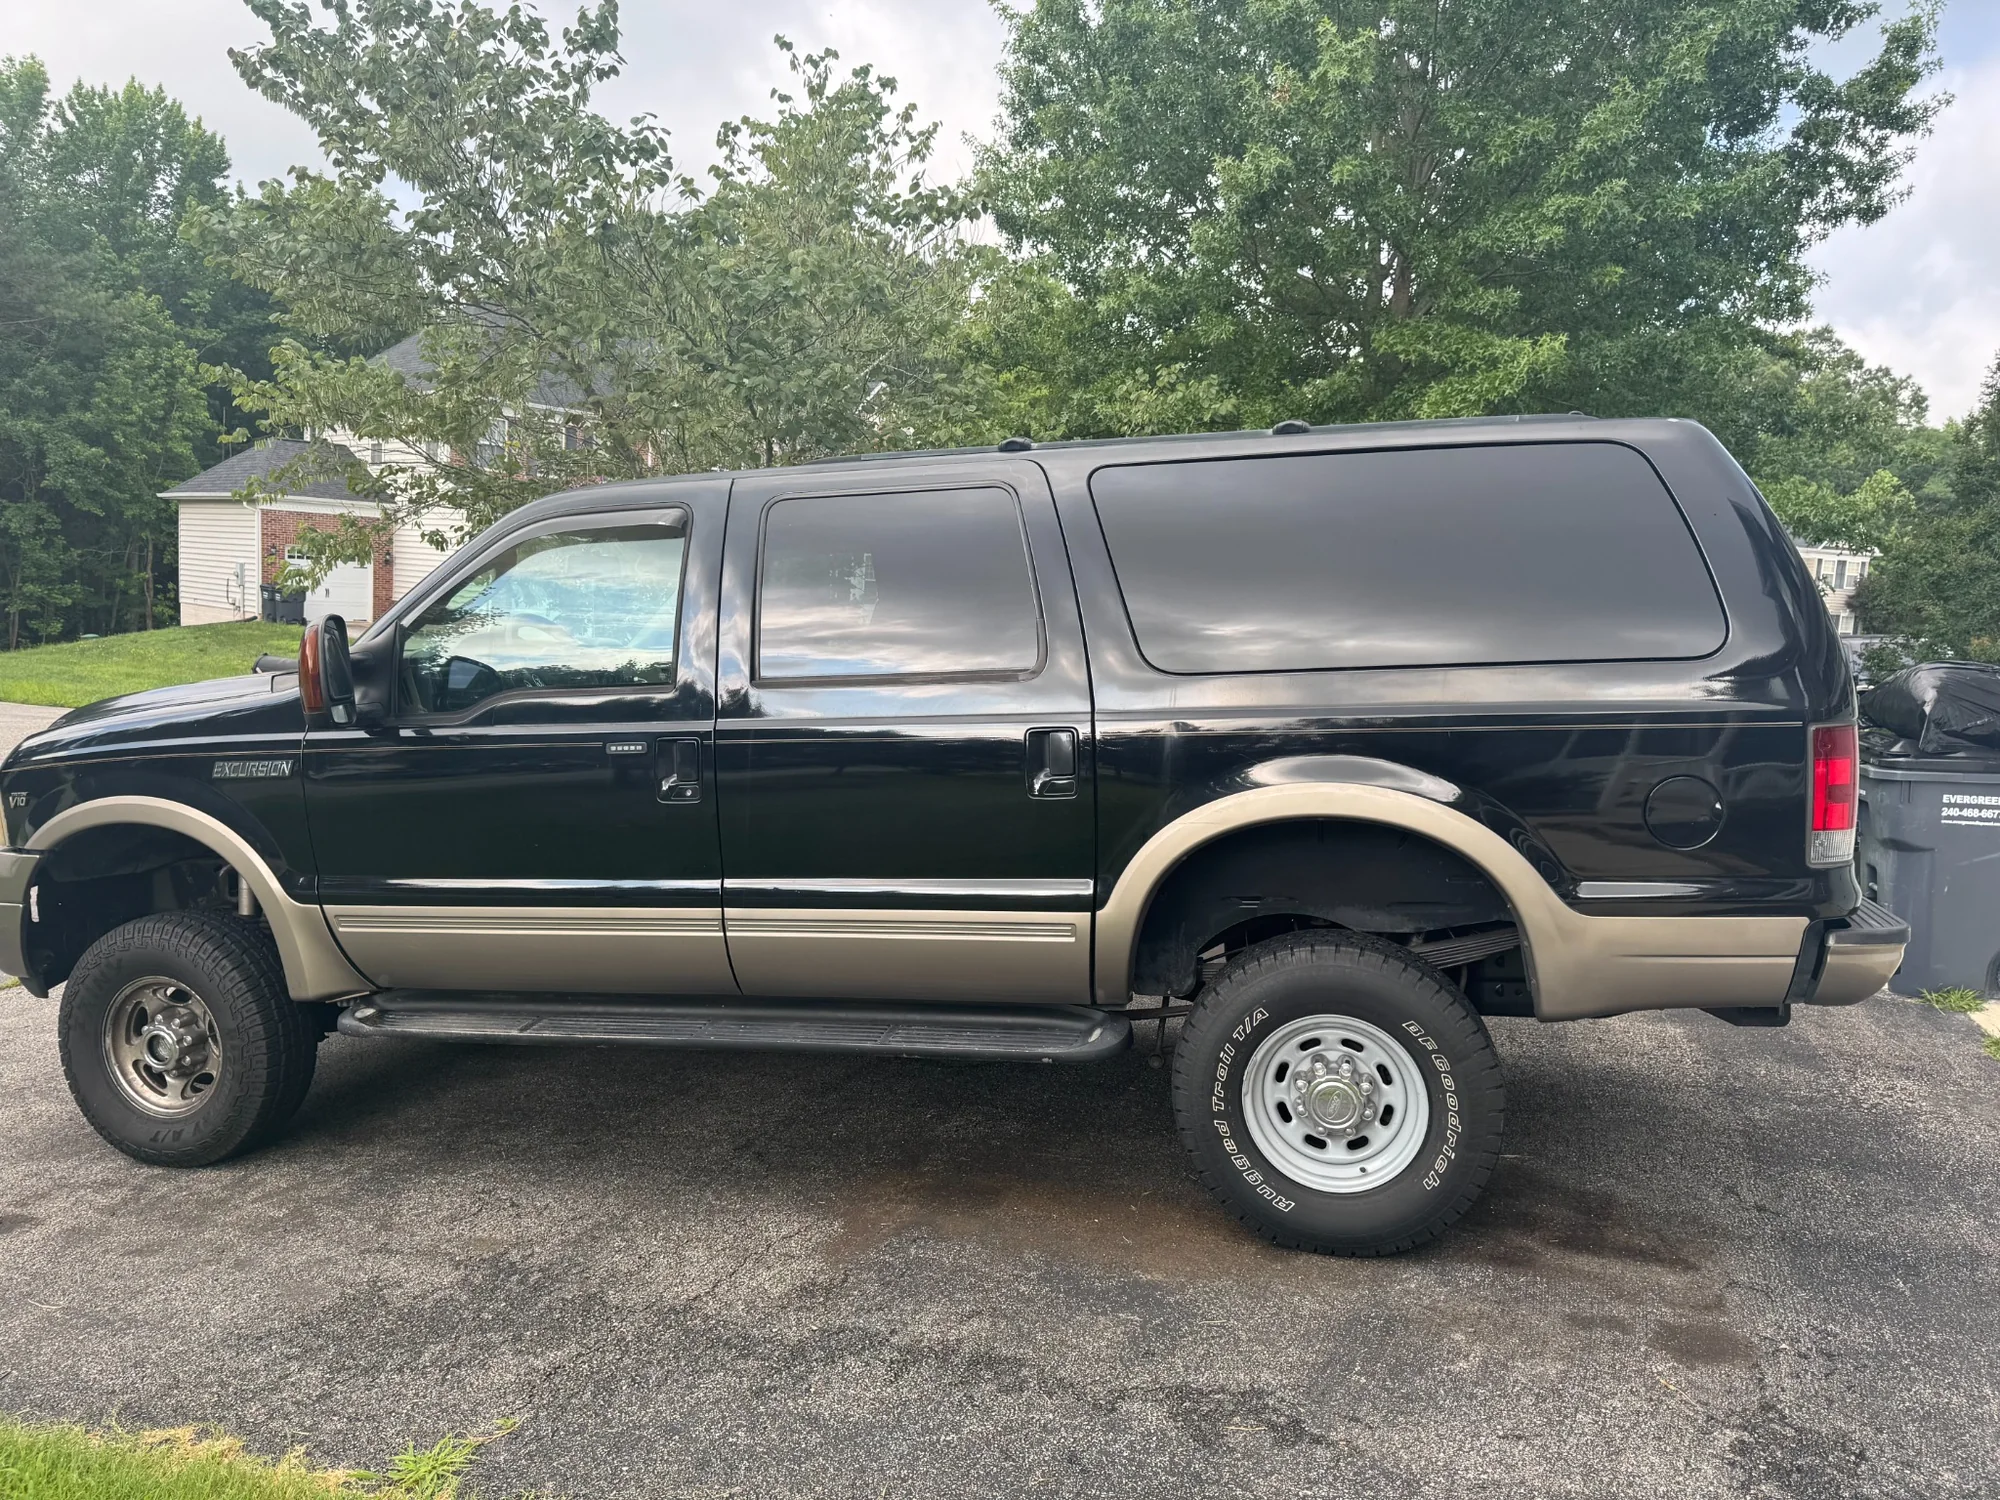
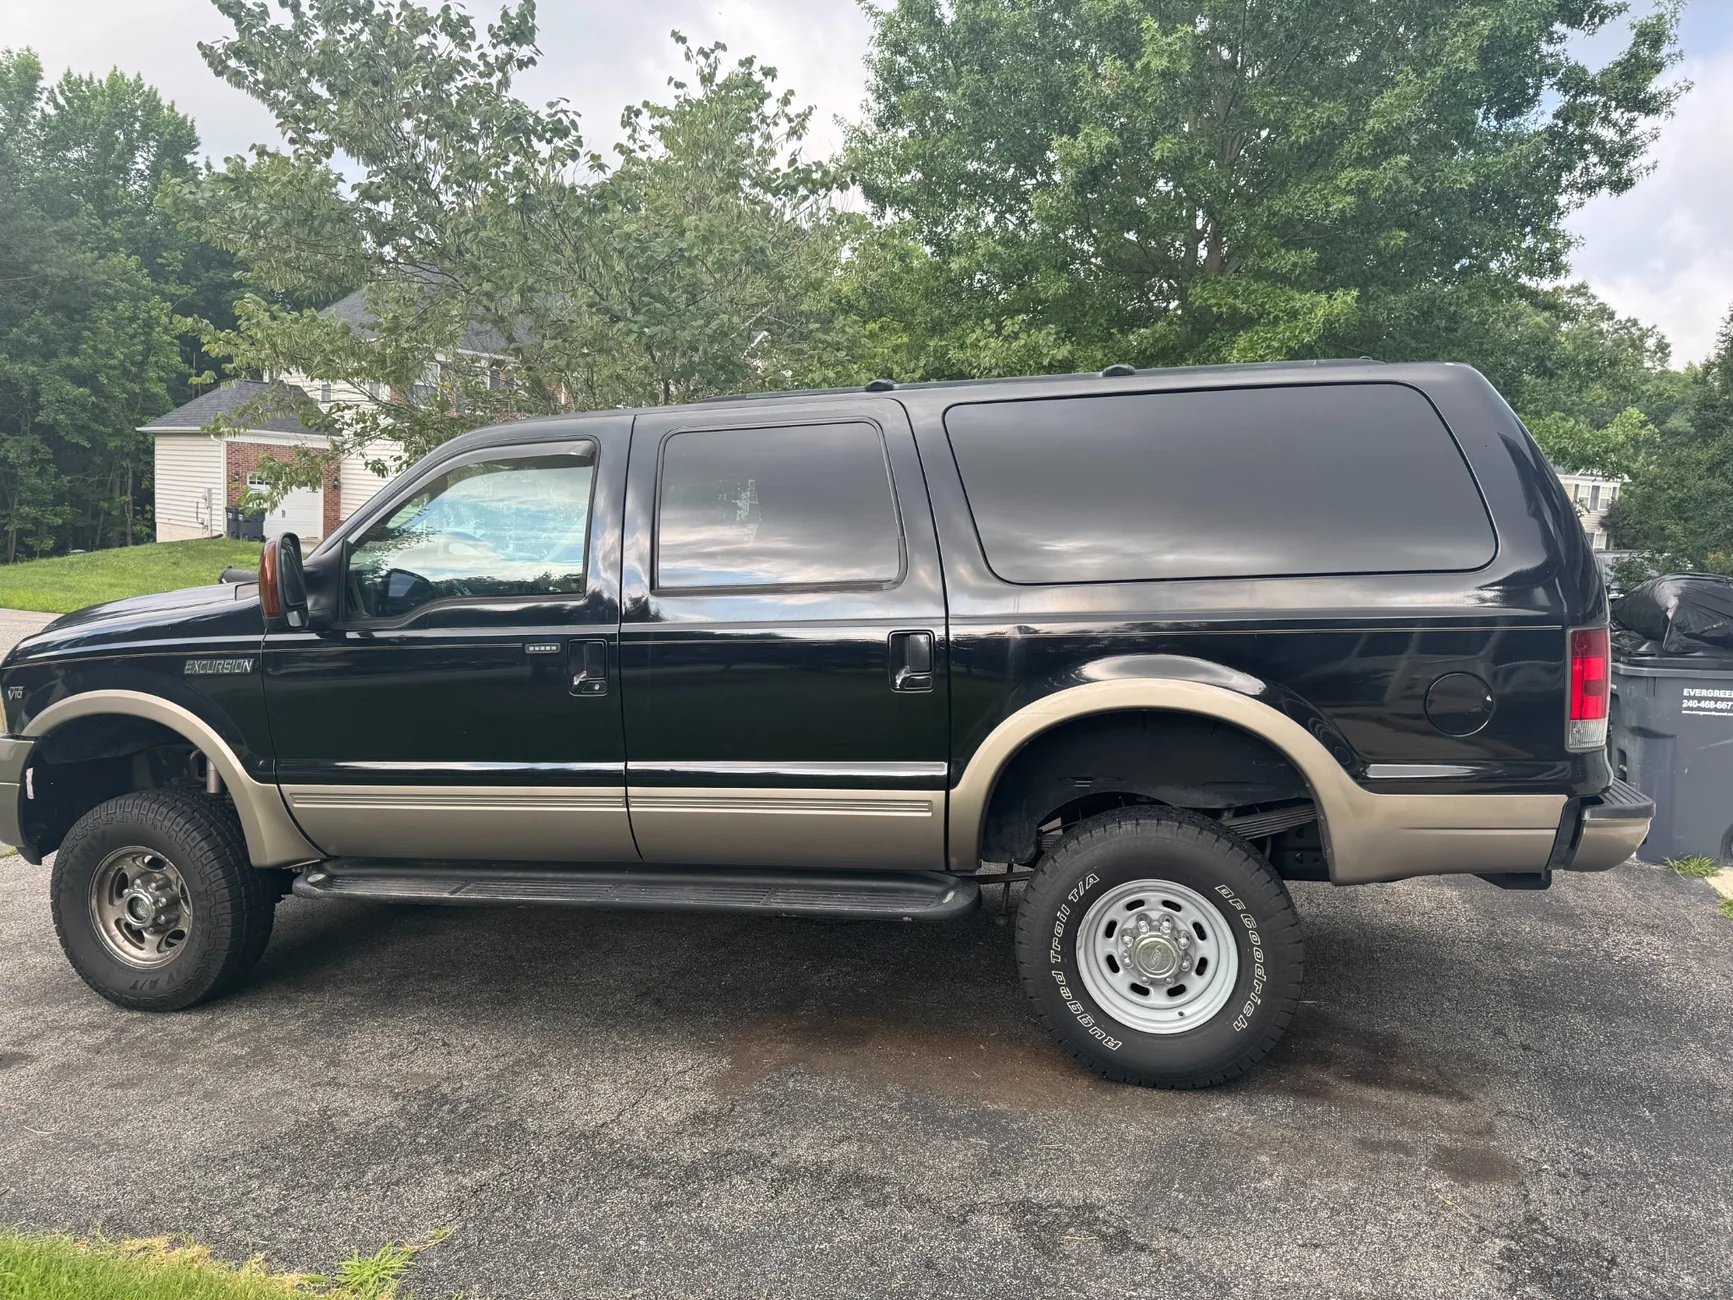
Phase 2 Homepage upgrade

diff --git a/index.html b/index.html
@@ -1,101 +1,22 @@
 <!doctype html>
 <html lang="en">
 <head>
-  <meta charset="utf-8">
-  <meta name="viewport" content="width=device-width, initial-scale=1">
+  <meta charset="utf-8"><meta name="viewport" content="width=device-width, initial-scale=1">
   <title>Semper Fi Removal | Veteran-Owned Junk Removal in Southern Maryland</title>
-  <meta name="description" content="Veteran-owned junk removal and property cleanouts serving Southern Maryland.">
-  <link rel="icon" href="favicon.png">
-  <link rel="stylesheet" href="assets/css/style.css">
+  <meta name="description" content="Veteran-owned junk removal and property cleanouts serving St. Mary’s County and Southern Maryland.">
+  <link rel="icon" href="favicon.png"><link rel="stylesheet" href="assets/css/style.css">
 </head>
 <body>
 <div class="topbar"><div class="container"><span>★ Veteran-Owned Junk Removal • Serving Southern Maryland</span><span>Call/Text <strong>[phone redacted]</strong></span></div></div>
-<header class="site-header">
-  <div class="container nav-wrap">
-    <a class="brand" href="index.html">
-      <img src="assets/images/logo.png" alt="Semper Fi Removal logo">
-      <span><span class="brand-title">Semper Fi<span>Removal</span></span><span class="brand-sub">The Sergeant Standard™</span></span>
-    </a>
-    <button class="menu-toggle">☰ Menu</button>
-    <nav class="nav">
-      <a href="index.html">Home</a>
-      <a href="services.html">Services</a>
-      <a href="pricing.html">Pricing</a>
-      <a href="service-areas.html">Service Areas</a>
-      <a href="gallery.html">Gallery</a>
-      <a href="about.html">About</a>
-      <a class="nav-cta" href="estimate.html">Free Estimate</a>
-    </nav>
-  </div>
-</header>
-
+<header class="site-header"><div class="container nav-wrap"><a class="brand" href="index.html"><img src="assets/images/logo.png" alt="Semper Fi Removal logo"><span><span class="brand-title">Semper Fi<span>Removal</span></span><span class="brand-sub">The Sergeant Standard™</span></span></a><button class="menu-toggle">☰ Menu</button><nav class="nav"><a href="index.html">Home</a><a href="services.html">Services</a><a href="pricing.html">Pricing</a><a href="service-areas.html">Service Areas</a><a href="gallery.html">Gallery</a><a href="about.html">About</a><a class="nav-cta" href="estimate.html">Free Estimate</a></nav></div></header>
 <main>
-<section class="hero">
-  <div class="container hero-grid">
-    <div>
-      <p class="eyebrow">Southern Maryland’s</p>
-      <h1>Veteran-Owned <span>Junk Removal</span> Service</h1>
-      <div class="motto">Show Up. Work Hard.<span>Complete the Mission.</span></div>
-      <p class="lead">From single-item pickups to full property cleanouts, Semper Fi Removal shows up on time, works hard, and leaves your property clean with honest pricing and military attention to detail.</p>
-      <div class="promise">★ Sergeant’s Got Your Six™ ★</div>
-      <div class="btn-row"><a class="btn btn-red" href="estimate.html">Get My Free Estimate →</a><a class="btn" href="tel:[phone redacted]">Call [phone redacted]</a></div>
-    </div>
-    <div class="hero-card"><img src="assets/images/logo.png" alt="Semper Fi Removal badge"></div>
-  </div>
-</section>
-<section class="trust-strip">
-  <div class="container trust-grid">
-    <div class="trust-item"><div class="icon">🎖</div><div><h3>Veteran-Owned</h3><p>Integrity, discipline, and The Sergeant Standard.</p></div></div>
-    <div class="trust-item"><div class="icon">🏷</div><div><h3>Honest Pricing</h3><p>Upfront quotes. No hidden fees. You approve before we start.</p></div></div>
-    <div class="trust-item"><div class="icon">🚛</div><div><h3>Heavy Lifting</h3><p>You point. We lift, load, haul, and dispose responsibly.</p></div></div>
-    <div class="trust-item"><div class="icon">🧹</div><div><h3>We Leave It Clean</h3><p>We don’t just take the junk — we leave the area clean.</p></div></div>
-  </div>
-</section>
-<section class="section">
-  <div class="container">
-    <div class="section-title"><p class="eyebrow">Our Services</p><h2>Junk Removal & Cleanouts</h2></div>
-    <div class="card-grid">
-      <div class="card"><h3>Furniture Removal</h3><p>Couches, recliners, tables, mattresses, dressers, desks, and more.</p></div>
-      <div class="card"><h3>Appliance Removal</h3><p>Washers, dryers, refrigerators, freezers, stoves, and small appliances.</p></div>
-      <div class="card"><h3>Garage Cleanouts</h3><p>Boxes, old furniture, shelves, bags, and years of clutter cleared fast.</p></div>
-      <div class="card"><h3>Estate Cleanouts</h3><p>Respectful cleanout support for families, realtors, and property managers.</p></div>
-      <div class="card"><h3>Yard Debris</h3><p>Brush, branches, storm debris, fencing, lumber, and outdoor clutter.</p></div>
-      <div class="card"><h3>Property Cleanouts</h3><p>Homes, rentals, storage units, basements, garages, and businesses.</p></div>
-    </div>
-  </div>
-</section>
-<section class="section alt">
-  <div class="container split">
-    <div class="photo-frame"><img src="assets/images/about-truck.webp" alt="Michael's Ford Excursion"></div>
-    <div class="copy">
-      <p class="eyebrow">A Note From The Founder</p>
-      <h2>Meet Michael</h2>
-      <p>Hi, I'm Michael, founder of Semper Fi Removal. After serving my country as a veteran of the United States Marine Corps and later as a former federal employee, I wanted to continue serving my community by helping people reclaim their homes, garages, businesses, and properties.</p>
-      <p>Whether you need a single item removed or a full property cleanout, my goal is simple: show up on time, work hard, and complete the mission.</p>
-      <a class="btn" href="about.html">Read My Full Story →</a>
-    </div>
-  </div>
-</section>
-<section class="quote-band">
-  <div class="container">
-    <h2>Ready to reclaim your space?</h2>
-    <p>Sergeant’s Got Your Six™</p>
-    <div class="btn-row" style="justify-content:center"><a class="btn btn-red" href="estimate.html">Request Free Estimate</a><a class="btn" href="tel:[phone redacted]">Call Now</a></div>
-  </div>
-</section>
+<section class="hero-v2"><div class="container hero-grid-v2"><div><p class="eyebrow">Southern Maryland’s</p><h1>Veteran-Owned <span>Junk Removal</span> Service</h1><div class="mission-line">Show Up. Work Hard.<span>Complete the Mission.</span></div><p class="hero-lead">From single-item pickups to full property cleanouts, Semper Fi Removal shows up on time, works hard, and leaves your property clean with honest pricing and military attention to detail.</p><div class="promise">★ Sergeant’s Got Your Six™ ★</div><div class="btn-row"><a class="btn btn-red" href="estimate.html">Get My Free Estimate →</a><a class="btn" href="tel:[phone redacted]">Call [phone redacted]</a></div></div><div class="hero-logo-card"><img src="assets/images/logo.png" alt="Semper Fi Removal badge logo"></div></div></section>
+<section class="quick-stats"><div class="stat"><strong>60 mi</strong><span>Service Radius</span></div><div class="stat"><strong>Free</strong><span>Estimates</span></div><div class="stat"><strong>100%</strong><span>Upfront Pricing</span></div><div class="stat"><strong>Mission</strong><span>Complete</span></div></section>
+<section class="section"><div class="container"><div class="section-title"><p class="eyebrow">Why Choose Us</p><h2>The Sergeant Standard™</h2></div><div class="card-grid"><div class="card"><h3>Veteran-Owned</h3><p>Built on integrity, discipline, and service. We treat every customer and every property with respect.</p></div><div class="card"><h3>Honest Pricing</h3><p>No surprises. We confirm your price before work begins and explain what affects the estimate.</p></div><div class="card"><h3>Heavy Lifting Included</h3><p>You point. We lift, load, haul, sweep, and dispose responsibly whenever possible.</p></div></div></div></section>
+<section class="section alt"><div class="container split"><div class="photo-frame"><img src="assets/images/about-truck.webp" alt="Semper Fi Removal Ford Excursion"></div><div class="copy"><p class="eyebrow">A Note From The Founder</p><h2>Meet Michael</h2><p>Hi, I'm Michael, founder of Semper Fi Removal. After serving my country as a veteran of the United States Marine Corps and later as a former federal employee, I wanted to continue serving my community by helping people reclaim their homes, garages, businesses, and properties.</p><p>Whether you need a single item removed or a full property cleanout, my goal is simple: <strong>show up on time, work hard, and complete the mission.</strong></p><a class="btn" href="about.html">Read My Full Story →</a></div></div></section>
+<section class="section"><div class="container"><div class="section-title"><p class="eyebrow">What We Do</p><h2>Junk Removal & Cleanouts</h2></div><div class="card-grid"><div class="card"><h3>Furniture Removal</h3><p>Couches, recliners, mattresses, dressers, desks, tables, and more.</p></div><div class="card"><h3>Appliance Removal</h3><p>Washers, dryers, refrigerators, stoves, freezers, AC units, and small appliances.</p></div><div class="card"><h3>Garage Cleanouts</h3><p>Boxes, old furniture, shelving, bags, and years of clutter cleared fast.</p></div><div class="card"><h3>Estate Cleanouts</h3><p>Respectful cleanout support for families, realtors, and property managers.</p></div><div class="card"><h3>Yard Debris</h3><p>Brush, branches, storm debris, fencing, lumber, and outdoor clutter.</p></div><div class="card"><h3>Property Cleanouts</h3><p>Homes, rentals, storage units, basements, garages, and businesses.</p></div></div></div></section>
+<section class="quote-band"><div class="container"><h2>Ready to reclaim your space?</h2><p>Sergeant’s Got Your Six™</p><div class="btn-row" style="justify-content:center"><a class="btn btn-red" href="estimate.html">Request Free Estimate</a><a class="btn" href="tel:[phone redacted]">Call Now</a></div></div></section>
 </main>
-
-<footer class="footer">
-  <div class="container footer-grid">
-    <div>
-      <h3>Semper Fi Removal</h3>
-      <p>Veteran-owned junk removal and property cleanouts serving St. Mary’s County and surrounding areas within 60 miles.</p>
-      <p><strong>Show Up. Work Hard. Complete the Mission.</strong></p>
-    </div>
-    <div><h3>Company</h3><a href="about.html">About</a><a href="services.html">Services</a><a href="pricing.html">Pricing</a><a href="estimate.html">Free Estimate</a></div>
-    <div><h3>Contact</h3><a href="tel:[phone redacted]">[phone redacted]</a><a href="mailto:[email redacted]">[email redacted]</a><p>Southern Maryland</p></div>
-  </div>
-</footer>
-<div class="mobile-actions"><a href="estimate.html">Free Estimate</a><a href="tel:[phone redacted]">Call Now</a></div>
-<script src="assets/js/app.js"></script>
+<footer class="footer"><div class="container footer-grid"><div><h3>Semper Fi Removal</h3><p>Veteran-owned junk removal and property cleanouts serving St. Mary’s County and surrounding areas within 60 miles.</p><p><strong>Show Up. Work Hard. Complete the Mission.</strong></p></div><div><h3>Company</h3><a href="about.html">About</a><a href="services.html">Services</a><a href="pricing.html">Pricing</a><a href="estimate.html">Free Estimate</a></div><div><h3>Contact</h3><a href="tel:[phone redacted]">[phone redacted]</a><a href="mailto:[email redacted]">[email redacted]</a><p>Southern Maryland</p></div></div></footer>
+<div class="mobile-actions"><a href="estimate.html">Free Estimate</a><a href="tel:[phone redacted]">Call Now</a></div><script src="assets/js/app.js"></script>
 </body></html>

diff --git a/assets/css/style.css b/assets/css/style.css
@@ -1,8 +1,10 @@
 
-:root{--black:#050505;--panel:#151515;--navy:#102A43;--red:#B22222;--red2:#d13232;--gold:#C9A227;--cream:#F5F1E8;--muted:#c7c0ad;--line:rgba(201,162,39,.28);--shadow:0 24px 65px rgba(0,0,0,.55)}
-*{box-sizing:border-box}html{scroll-behavior:smooth}body{margin:0;background:var(--black);color:var(--cream);font-family:Arial,Helvetica,sans-serif;line-height:1.6}img{max-width:100%;display:block}a{color:inherit;text-decoration:none}.container{width:min(1180px,92vw);margin:0 auto}.topbar{background:#070707;border-bottom:1px solid rgba(255,255,255,.08);color:#f4e8c8;font-size:.92rem}.topbar .container{display:flex;justify-content:space-between;gap:14px;align-items:center;padding:8px 0}.topbar strong{color:var(--gold)}
-.site-header{position:sticky;top:0;z-index:1000;background:rgba(0,0,0,.92);backdrop-filter:blur(10px);border-bottom:1px solid var(--line)}.nav-wrap{display:flex;align-items:center;justify-content:space-between;gap:24px;padding:14px 0}.brand{display:flex;align-items:center;gap:13px}.brand img{width:74px;height:74px;object-fit:contain}.brand-title{font-family:Impact,Haettenschweiler,'Arial Narrow Bold',sans-serif;letter-spacing:2px;font-size:2.1rem;color:var(--gold);text-transform:uppercase;line-height:.9}.brand-title span{display:block;color:var(--red);margin-top:2px}.brand-sub{font-size:.78rem;color:var(--gold);letter-spacing:4px;text-transform:uppercase;margin-top:6px}.nav{display:flex;align-items:center;gap:22px;text-transform:uppercase;font-weight:800;font-size:.9rem;letter-spacing:.6px}.nav a{opacity:.9}.nav a:hover{color:var(--gold)}.nav .nav-cta{background:var(--red);padding:13px 17px;border-radius:4px;opacity:1;color:white;box-shadow:inset 0 0 0 1px rgba(255,255,255,.15)}.menu-toggle{display:none;background:none;color:white;border:1px solid var(--line);padding:10px 12px;border-radius:4px;font-weight:800}
-.hero{position:relative;min-height:760px;display:flex;align-items:center;background:linear-gradient(90deg,rgba(0,0,0,.96) 0%,rgba(0,0,0,.82) 34%,rgba(0,0,0,.38) 62%,rgba(0,0,0,.05) 100%),url("../images/hero-truck.webp") center right/cover no-repeat;border-bottom:1px solid var(--line);overflow:hidden}.hero:after{content:"";position:absolute;inset:0;background:radial-gradient(circle at 70% 42%,rgba(201,162,39,.16),transparent 35%)}.hero-grid{position:relative;z-index:2;display:grid;grid-template-columns:1.05fr .95fr;gap:28px;align-items:center}.eyebrow{color:var(--gold);text-transform:uppercase;letter-spacing:4px;font-weight:900;margin:0 0 10px}.hero h1,.page-hero h1{font-family:Impact,Haettenschweiler,'Arial Narrow Bold',sans-serif;font-weight:900;line-height:.96;text-transform:uppercase;letter-spacing:1px;font-size:clamp(3rem,7vw,6.8rem);margin:0 0 20px;text-shadow:0 9px 22px rgba(0,0,0,.8)}.hero h1 span,.gold{color:var(--gold)}.red{color:var(--red2)}.lead{font-size:1.15rem;color:#eee;max-width:650px;margin:0 0 22px}.motto{margin:26px 0 18px;color:white;font-family:Impact,Haettenschweiler,'Arial Narrow Bold',sans-serif;text-transform:uppercase;letter-spacing:2px;font-size:clamp(1.8rem,3vw,3rem)}.motto span{display:block;color:var(--gold)}.promise{display:inline-flex;align-items:center;gap:10px;border:1px solid var(--gold);color:var(--gold);padding:10px 18px;font-weight:900;text-transform:uppercase;letter-spacing:2px;margin-bottom:24px;background:rgba(0,0,0,.4)}.btn-row{display:flex;gap:16px;flex-wrap:wrap;align-items:center}.btn{display:inline-flex;align-items:center;justify-content:center;gap:10px;min-height:56px;padding:0 25px;border:1px solid var(--gold);font-weight:900;text-transform:uppercase;letter-spacing:.8px;border-radius:5px}.btn-red{background:linear-gradient(180deg,var(--red2),var(--red));border-color:#ff5959;color:white;box-shadow:0 12px 30px rgba(178,34,34,.28)}.btn:hover{transform:translateY(-2px)}.hero-card{justify-self:end;max-width:360px;background:rgba(0,0,0,.58);border:1px solid var(--line);padding:24px;box-shadow:var(--shadow);border-radius:12px}.hero-card img{filter:drop-shadow(0 22px 32px rgba(0,0,0,.7))}
-.trust-strip{background:linear-gradient(180deg,#151515,#0d0d0d);border-bottom:1px solid var(--line)}.trust-grid{display:grid;grid-template-columns:repeat(4,1fr);gap:0}.trust-item{padding:25px 24px;border-right:1px solid rgba(255,255,255,.12);display:flex;gap:14px;align-items:flex-start}.trust-item:last-child{border-right:0}.icon{font-size:2rem;color:var(--gold)}.trust-item h3{margin:0 0 4px;text-transform:uppercase;font-family:Impact,Haettenschweiler,'Arial Narrow Bold',sans-serif;letter-spacing:1px}.trust-item p{margin:0;color:var(--muted);font-size:.95rem}.section{padding:82px 0}.section.alt{background:#0d0d0d}.section-title{text-align:center;margin-bottom:40px}.section-title h2{margin:0;font-family:Impact,Haettenschweiler,'Arial Narrow Bold',sans-serif;text-transform:uppercase;letter-spacing:1px;font-size:clamp(2.4rem,4vw,4rem)}.card-grid{display:grid;grid-template-columns:repeat(3,1fr);gap:20px}.card{background:linear-gradient(180deg,#1a1a1a,#111);border:1px solid rgba(255,255,255,.1);border-top:3px solid var(--gold);border-radius:10px;padding:24px;box-shadow:0 18px 45px rgba(0,0,0,.25)}.card h3{font-family:Impact,Haettenschweiler,'Arial Narrow Bold',sans-serif;text-transform:uppercase;letter-spacing:1px;font-size:1.65rem;margin:0 0 10px}.card p{color:var(--muted);margin:0}.split{display:grid;grid-template-columns:.95fr 1.05fr;gap:36px;align-items:center}.photo-frame{border:1px solid var(--line);border-radius:14px;overflow:hidden;box-shadow:var(--shadow);position:relative}.copy h2{font-family:Impact,Haettenschweiler,'Arial Narrow Bold',sans-serif;text-transform:uppercase;font-size:clamp(2.2rem,4vw,4rem);line-height:1;margin:0 0 18px}.copy p{color:#ddd;font-size:1.05rem}.quote-band{padding:70px 0;background:linear-gradient(90deg,rgba(16,42,67,.93),rgba(178,34,34,.88)),url("../images/truck-side.webp") center/cover no-repeat;text-align:center}.quote-band h2{font-family:Impact,Haettenschweiler,'Arial Narrow Bold',sans-serif;font-size:clamp(2.2rem,4vw,4rem);margin:0 0 10px;text-transform:uppercase}
-.footer{background:#050505;border-top:1px solid var(--line);padding:42px 0;color:#bbb}.footer-grid{display:grid;grid-template-columns:2fr 1fr 1fr;gap:30px}.footer h3{color:var(--gold);text-transform:uppercase}.footer a{display:block;margin:5px 0;color:#ddd}.mobile-actions{display:none;position:fixed;bottom:0;left:0;right:0;z-index:1200;background:#050505;border-top:1px solid var(--line);grid-template-columns:1fr 1fr}.mobile-actions a{padding:14px 8px;text-align:center;font-weight:900;text-transform:uppercase}.mobile-actions a:first-child{background:var(--red);color:white}.page-hero{padding:95px 0 70px;background:linear-gradient(90deg,rgba(0,0,0,.92),rgba(0,0,0,.62)),url("../images/hero-truck.webp") center/cover no-repeat;border-bottom:1px solid var(--line)}.page-hero h1{font-size:clamp(2.8rem,6vw,5.8rem)}.form-shell{max-width:940px}.estimate-form{background:#111;border:1px solid var(--line);border-radius:14px;padding:30px;box-shadow:var(--shadow)}.form-grid{display:grid;grid-template-columns:repeat(2,1fr);gap:18px}label{display:block;color:var(--gold);font-weight:900;text-transform:uppercase;font-size:.82rem;letter-spacing:.8px;margin-bottom:18px}input,select,textarea{width:100%;margin-top:8px;background:#060606;color:white;border:1px solid rgba(255,255,255,.18);border-radius:6px;padding:14px;font:inherit}textarea{resize:vertical}.form-message{font-weight:900;margin:18px 0 0}.form-message.success{color:#6ee58a}.form-message.error{color:#ff7777}
-@media(max-width:930px){.menu-toggle{display:block}.nav{position:absolute;top:100%;left:0;right:0;background:#050505;display:none;flex-direction:column;align-items:stretch;padding:16px;border-bottom:1px solid var(--line)}.nav.open{display:flex}.nav a{padding:10px 0}.brand-title{font-size:1.45rem}.brand img{width:58px;height:58px}.topbar .container{font-size:.78rem;flex-direction:column;gap:3px}.hero{min-height:auto;padding:75px 0 48px;background:linear-gradient(180deg,rgba(0,0,0,.93),rgba(0,0,0,.66)),url("../images/hero-truck.webp") center/cover no-repeat}.hero-grid{grid-template-columns:1fr;text-align:center}.hero-card{justify-self:center;max-width:260px}.lead{margin-left:auto;margin-right:auto}.btn-row{justify-content:center}.trust-grid,.card-grid,.split,.footer-grid,.form-grid{grid-template-columns:1fr}.trust-item{border-right:0;border-bottom:1px solid rgba(255,255,255,.12)}.mobile-actions{display:grid}body{padding-bottom:52px}}
+:root{--black:#050505;--panel:#171717;--navy:#102A43;--red:#B22222;--red2:#D43737;--gold:#C9A227;--cream:#F5F1E8;--muted:#C9C0A8;--line:rgba(201,162,39,.28);--shadow:0 24px 65px rgba(0,0,0,.55)}
+*{box-sizing:border-box}html{scroll-behavior:smooth}body{margin:0;background:var(--black);color:var(--cream);font-family:Arial,Helvetica,sans-serif;line-height:1.6}img{max-width:100%;display:block}a{color:inherit;text-decoration:none}.container{width:min(1180px,92vw);margin:0 auto}
+.topbar{background:#070707;border-bottom:1px solid rgba(255,255,255,.08);color:#f4e8c8;font-size:.92rem}.topbar .container{display:flex;justify-content:space-between;gap:14px;align-items:center;padding:8px 0}.topbar strong{color:var(--gold)}
+.site-header{position:sticky;top:0;z-index:1000;background:rgba(0,0,0,.92);backdrop-filter:blur(10px);border-bottom:1px solid var(--line)}.nav-wrap{display:flex;align-items:center;justify-content:space-between;gap:24px;padding:13px 0}.brand{display:flex;align-items:center;gap:13px}.brand img{width:74px;height:74px;object-fit:contain}.brand-title{font-family:Impact,Haettenschweiler,'Arial Narrow Bold',sans-serif;letter-spacing:2px;font-size:2.05rem;color:var(--gold);text-transform:uppercase;line-height:.88}.brand-title span{display:block;color:var(--red2)}.brand-sub{display:block;font-size:.72rem;color:var(--gold);letter-spacing:3px;text-transform:uppercase;margin-top:7px}.nav{display:flex;align-items:center;gap:21px;text-transform:uppercase;font-weight:800;font-size:.9rem;letter-spacing:.6px}.nav a:hover{color:var(--gold)}.nav .nav-cta{background:var(--red);padding:12px 16px;border-radius:4px;color:white}.menu-toggle{display:none;background:none;color:white;border:1px solid var(--line);padding:10px 12px;border-radius:4px;font-weight:800}
+.hero-v2{position:relative;min-height:790px;display:flex;align-items:center;background:linear-gradient(90deg,rgba(0,0,0,.96) 0%,rgba(0,0,0,.84) 36%,rgba(0,0,0,.40) 62%,rgba(0,0,0,.10) 100%),url('../images/hero-truck.webp') center right/cover no-repeat;overflow:hidden;border-bottom:1px solid var(--line)}.hero-v2:before{content:'';position:absolute;inset:0;background:radial-gradient(circle at 70% 42%,rgba(201,162,39,.18),transparent 36%),linear-gradient(180deg,transparent,rgba(0,0,0,.28));pointer-events:none}.hero-v2:after{content:'';position:absolute;left:0;bottom:0;width:100%;height:7px;background:linear-gradient(90deg,var(--red),var(--gold),var(--navy))}
+.hero-grid-v2{position:relative;z-index:2;display:grid;grid-template-columns:1.05fr .95fr;gap:28px;align-items:center;padding:72px 0}.eyebrow{color:var(--gold);text-transform:uppercase;letter-spacing:4px;font-weight:900;margin:0 0 12px}.hero-v2 h1{font-family:Impact,Haettenschweiler,'Arial Narrow Bold',sans-serif;font-size:clamp(3.1rem,7vw,7rem);line-height:.94;text-transform:uppercase;letter-spacing:1px;margin:0 0 18px;text-shadow:0 10px 26px rgba(0,0,0,.8)}.hero-v2 h1 span{color:var(--gold)}.hero-lead{font-size:1.18rem;color:#eee;max-width:660px;margin:0 0 22px}.mission-line{margin:24px 0 18px;font-family:Impact,Haettenschweiler,'Arial Narrow Bold',sans-serif;text-transform:uppercase;letter-spacing:2px;font-size:clamp(1.75rem,3vw,3rem);color:white}.mission-line span{display:block;color:var(--gold)}.promise{display:inline-flex;align-items:center;gap:10px;border:1px solid var(--gold);color:var(--gold);padding:10px 18px;font-weight:900;text-transform:uppercase;letter-spacing:2px;margin-bottom:24px;background:rgba(0,0,0,.45)}.btn-row{display:flex;gap:16px;flex-wrap:wrap;align-items:center}.btn{display:inline-flex;align-items:center;justify-content:center;gap:10px;min-height:56px;padding:0 25px;border:1px solid var(--gold);font-weight:900;text-transform:uppercase;letter-spacing:.8px;border-radius:5px;transition:.2s ease}.btn-red{background:linear-gradient(180deg,var(--red2),var(--red));border-color:#ff5959;color:white;box-shadow:0 12px 30px rgba(178,34,34,.28)}.btn:hover{transform:translateY(-2px)}.hero-logo-card{justify-self:end;max-width:350px;background:rgba(0,0,0,.58);border:1px solid var(--line);padding:22px;box-shadow:var(--shadow);border-radius:14px}.hero-logo-card img{filter:drop-shadow(0 22px 32px rgba(0,0,0,.72))}
+.quick-stats{display:grid;grid-template-columns:repeat(4,1fr);background:linear-gradient(180deg,#151515,#0d0d0d);border-bottom:1px solid var(--line)}.stat{padding:28px 22px;text-align:center;border-right:1px solid rgba(255,255,255,.12)}.stat strong{display:block;font-family:Impact,Haettenschweiler,'Arial Narrow Bold',sans-serif;color:var(--gold);font-size:2.5rem;line-height:1}.stat span{display:block;color:var(--muted);text-transform:uppercase;letter-spacing:1px;font-weight:800;margin-top:8px;font-size:.88rem}
+.section{padding:82px 0}.section.alt{background:#0d0d0d}.section-title{text-align:center;margin-bottom:42px}.section-title h2{margin:0;font-family:Impact,Haettenschweiler,'Arial Narrow Bold',sans-serif;text-transform:uppercase;letter-spacing:1px;font-size:clamp(2.4rem,4vw,4rem)}.card-grid{display:grid;grid-template-columns:repeat(3,1fr);gap:21px}.card{background:linear-gradient(180deg,#1a1a1a,#111);border:1px solid rgba(255,255,255,.1);border-top:3px solid var(--gold);border-radius:10px;padding:25px;box-shadow:0 18px 45px rgba(0,0,0,.25)}.card h3{font-family:Impact,Haettenschweiler,'Arial Narrow Bold',sans-serif;text-transform:uppercase;letter-spacing:1px;font-size:1.65rem;margin:0 0 10px}.card p{color:var(--muted);margin:0}.split{display:grid;grid-template-columns:.95fr 1.05fr;gap:38px;align-items:center}.photo-frame{border:1px solid var(--line);border-radius:14px;overflow:hidden;box-shadow:var(--shadow)}.copy h2{font-family:Impact,Haettenschweiler,'Arial Narrow Bold',sans-serif;text-transform:uppercase;font-size:clamp(2.2rem,4vw,4rem);line-height:1;margin:0 0 18px}.copy p{color:#ddd;font-size:1.05rem}.quote-band{padding:72px 0;background:linear-gradient(90deg,rgba(16,42,67,.94),rgba(178,34,34,.88)),url('../images/truck-side.webp') center/cover no-repeat;text-align:center}.quote-band h2{font-family:Impact,Haettenschweiler,'Arial Narrow Bold',sans-serif;font-size:clamp(2.2rem,4vw,4rem);margin:0 0 10px;text-transform:uppercase}.footer{background:#050505;border-top:1px solid var(--line);padding:42px 0;color:#bbb}.footer-grid{display:grid;grid-template-columns:2fr 1fr 1fr;gap:30px}.footer h3{color:var(--gold);text-transform:uppercase}.footer a{display:block;margin:5px 0;color:#ddd}.mobile-actions{display:none;position:fixed;bottom:0;left:0;right:0;z-index:1200;background:#050505;border-top:1px solid var(--line);grid-template-columns:1fr 1fr}.mobile-actions a{padding:14px 8px;text-align:center;font-weight:900;text-transform:uppercase}.mobile-actions a:first-child{background:var(--red);color:white}
+@media(max-width:930px){.menu-toggle{display:block}.nav{position:absolute;top:100%;left:0;right:0;background:#050505;display:none;flex-direction:column;align-items:stretch;padding:16px;border-bottom:1px solid var(--line)}.nav.open{display:flex}.nav a{padding:10px 0}.brand-title{font-size:1.45rem}.brand img{width:58px;height:58px}.topbar .container{font-size:.78rem;flex-direction:column;gap:3px}.hero-v2{min-height:auto;padding:58px 0 44px;background:linear-gradient(180deg,rgba(0,0,0,.96),rgba(0,0,0,.67)),url('../images/hero-truck.webp') center/cover no-repeat}.hero-grid-v2{grid-template-columns:1fr;text-align:center;padding:28px 0}.hero-logo-card{justify-self:center;max-width:250px}.hero-lead{margin-left:auto;margin-right:auto}.btn-row{justify-content:center}.quick-stats,.card-grid,.split,.footer-grid{grid-template-columns:1fr}.stat{border-right:0;border-bottom:1px solid rgba(255,255,255,.12)}.mobile-actions{display:grid}body{padding-bottom:52px}}